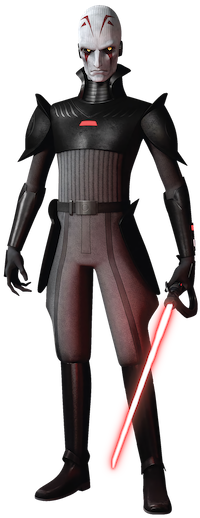
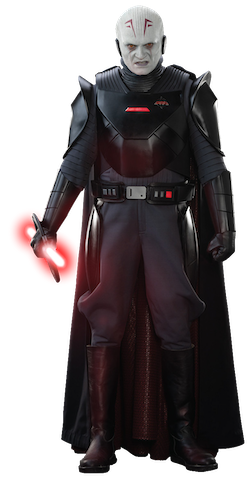
docs:Add inquisitors from Obi-Wan

diff --git a/Posters/Inquisitorius/script.js b/Posters/Inquisitorius/script.js
@@ -99,8 +99,8 @@ const numbered_inquisitors = [
         name:{en:"The Grand Inquisitor",ja:"大尋問官"},
         img:"1st.png",
         img_src:"https://advancedgraphics.com/grand-inquisitor-lifesize-cardboard-cutout-standee-3924/",
-        img_w:100,
-        img_pos:{bottom:-10},
+        img_w:125,
+        img_pos:{top:10,left:-25},
         lightsaber_img:"1st_l.png",
         species:{en:"Pau'an",ja:"パウアン"},
         died:{
@@ -148,9 +148,9 @@ const numbered_inquisitors = [
         name:{en:`3rd Sister<div>Reva</div>`,ja:`3rd Sister<div>リーヴァ</div>`},
         img:"3rd.png",
         img_src:"https://advancedgraphics.com/reva-third-sister-lifesize-cardboard-cutout-standee-3927/",
-        img_w:70,
+        img_w:85,
         img_pos:{top:20,left:10},
-        lightsaber_img:"",
+        lightsaber_img:"3rd_l.png",
         species:{en:"Human",ja:"人間"},
         died:"",
         appearances:[
@@ -173,9 +173,9 @@ const numbered_inquisitors = [
     new Inquisitor({
         name:`4th Sister`,
         img:"4th.png",
-        img_w:100,
-        img_pos:{top:20,left:0},
-        lightsaber_img:undefined,
+        img_w:150,
+        img_pos:{top:15,left:-50},
+        lightsaber_img:"4th_l.png",
         species:"?",
         died:undefined,
         appearances:[
@@ -189,8 +189,8 @@ const numbered_inquisitors = [
         name:`5th Brother`,
         img:"5th.png",
         img_src:"https://advancedgraphics.com/fith-brother-lifesize-cardboard-cutout-standee-3928/",
-        img_w:350,
-        img_pos:{bottom:-20,left:-100},
+        img_w:100,
+        img_pos:{top:5},
         lightsaber_img:"5th_l.png",
         species:"?",
         died:{

diff --git a/Posters/Inquisitorius/index.html b/Posters/Inquisitorius/index.html
@@ -123,7 +123,7 @@
   <body>
     <section id="main">
       <h1><span lang="en">List of Inquisitors</span><span lang="ja">尋問官一覧</span></h1>
-      <p><span lang="en">updated at 2022-05-05</span><span lang="ja">2022.05.05.更新</span></p>
+      <p><span lang="en">updated at 2022-09-11</span><span lang="ja">2022.09.11.更新</span></p>
       <p>
         <span lang="en"><a href="＃" class="spoilerSwitch fakes">Show</a><a href="＃" class="spoilerSwitch spoiler">Hide</a> spoilers</span>
         <span lang="ja">ネタバレを<a href="＃" class="spoilerSwitch fakes">表示</a><a href="＃" class="spoilerSwitch spoiler">隠す</a></span>
